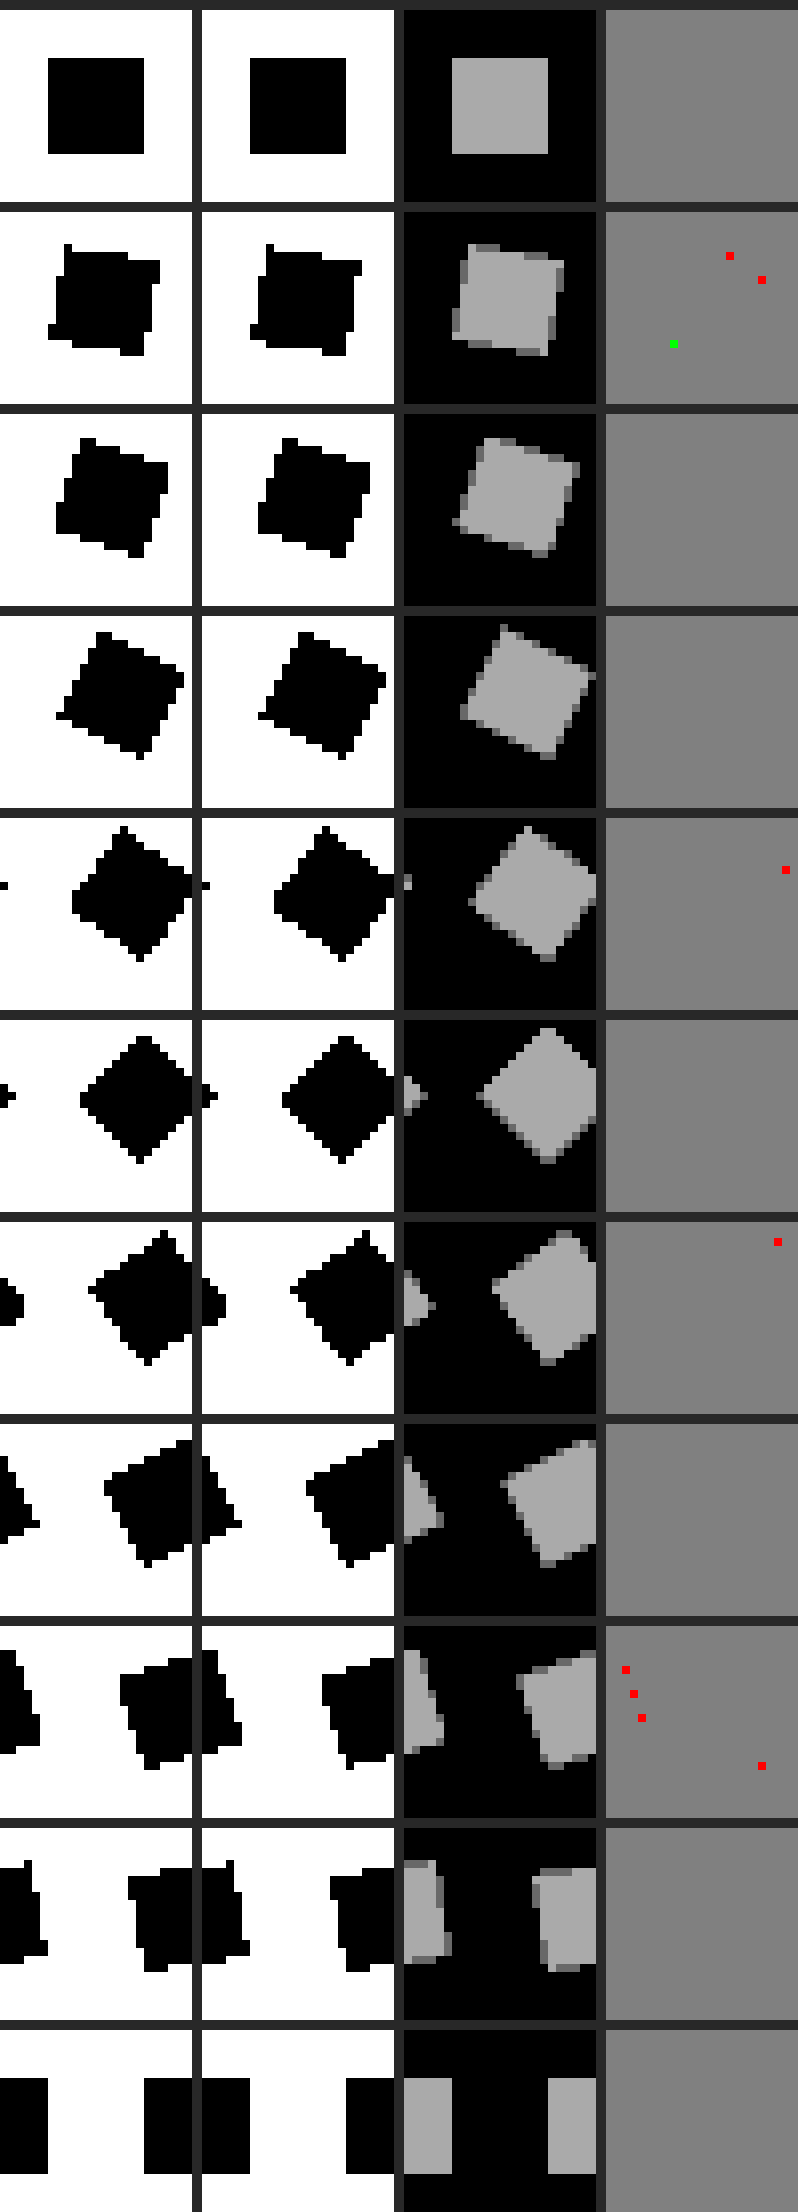
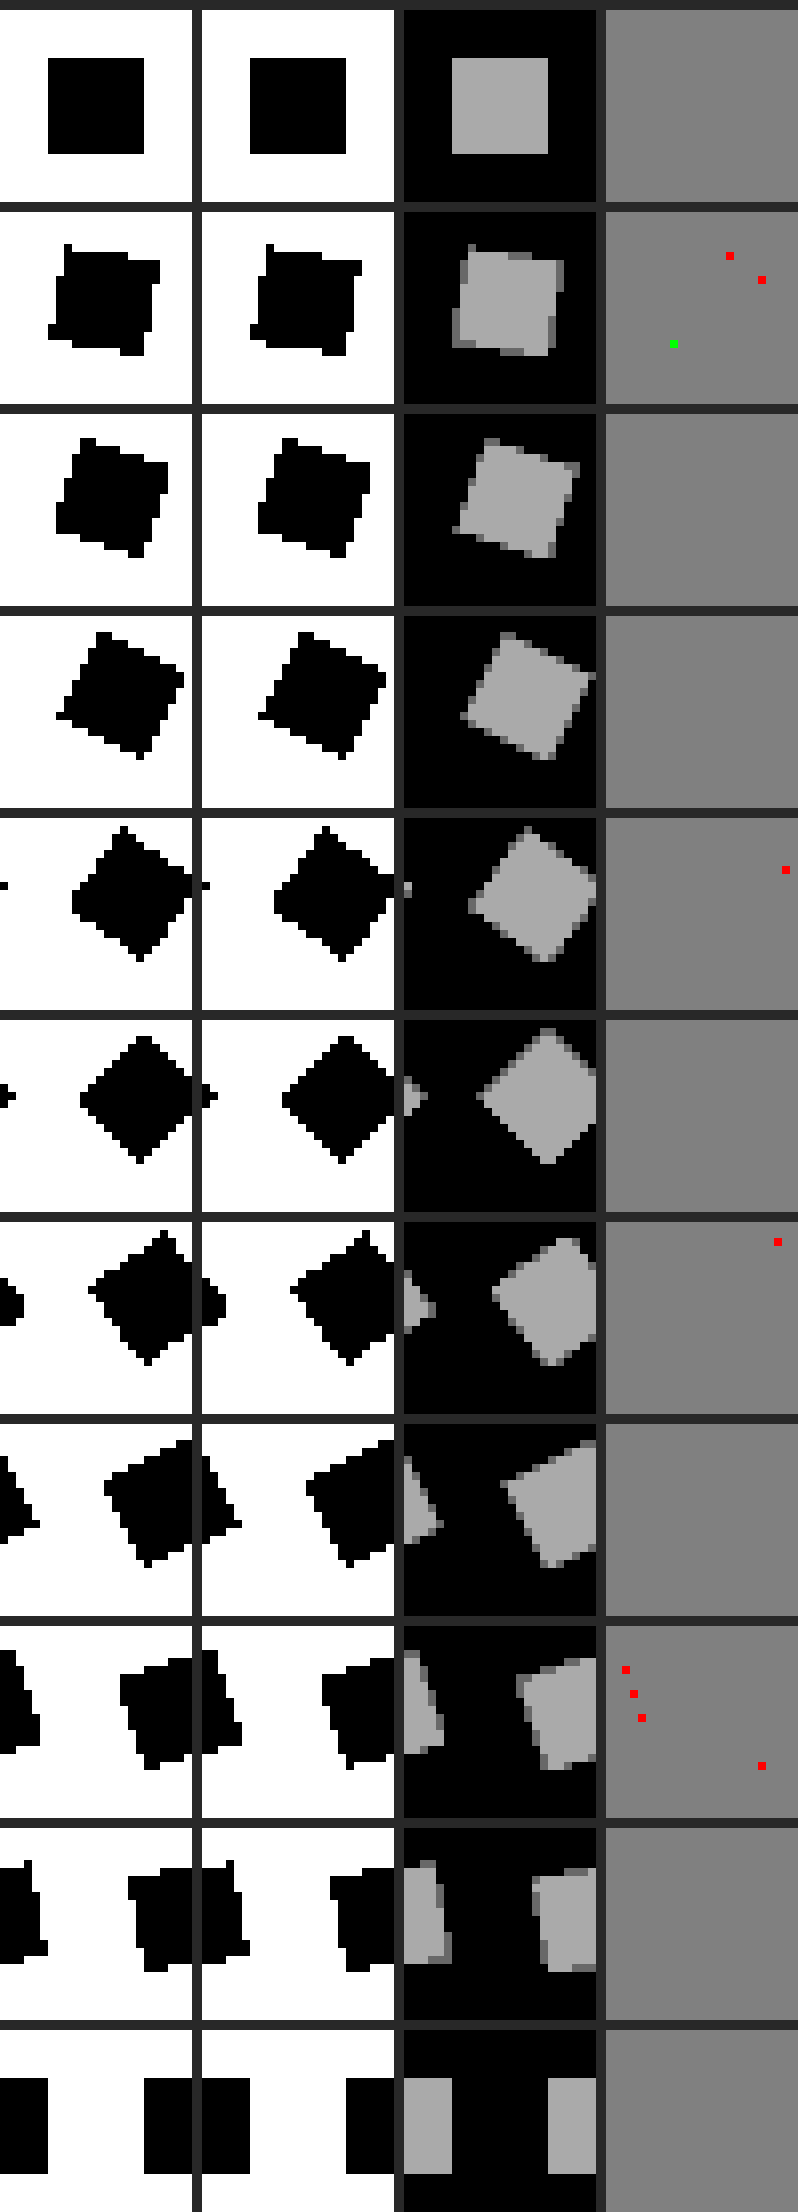
Optimize antialiased parameters for clean axis alignment and mirror symmetry
Uses separate symmetric parameters for the antialiased column (size=3056, center=3064 for both X and Y) to achieve:
- Zero antialiasing artifacts at 0° and 90° (axis-aligned frames)
- 86% Y-axis mirror symmetry between complementary angle pairs around 45°

diff --git a/tools/generate_final_comparison.go b/tools/generate_final_comparison.go
@@ -424,13 +424,22 @@ func main() {
 		}
 
 		// Column 2: Antialiased (C64 colors: light grey, dark grey, black)
-		// Use lower right corner as pivot for stable rotation
-		pivotAdj := Point{centerX + half, centerY + half}
-		var rotatedAdj [4]Point
-		for i := 0; i < 4; i++ {
-			rotatedAdj[i] = rotateTruncated(initial[i], pivotAdj, cos256, sin256)
+		// Clean axis-aligned + mirror-symmetric parameters
+		sizeAA := Fixed88(3056)  // 11.9375 pixels
+		centerAA := Fixed88(3064) // 11.96875 (both X and Y)
+		halfAA := sizeAA / 2
+		initialAA := [4]Point{
+			{centerAA - halfAA, centerAA - halfAA},
+			{centerAA + halfAA, centerAA - halfAA},
+			{centerAA + halfAA, centerAA + halfAA},
+			{centerAA - halfAA, centerAA + halfAA},
 		}
-		antialiased := renderQuadAntialiased(rotatedAdj)
+		pivotAA := Point{centerAA + halfAA, centerAA + halfAA} // Lower right corner
+		var rotatedAA [4]Point
+		for i := 0; i < 4; i++ {
+			rotatedAA[i] = rotateTruncated(initialAA[i], pivotAA, cos256, sin256)
+		}
+		antialiased := renderQuadAntialiased(rotatedAA)
 		xOffset = 24*scale*2 + 20
 		for y := 0; y < 24; y++ {
 			for x := 0; x < 24; x++ {
